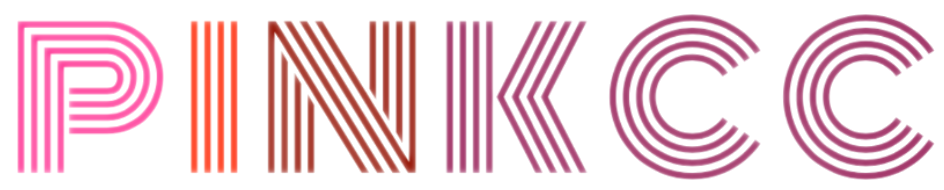
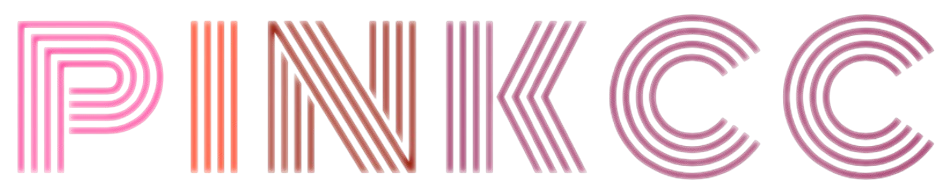
text update

Changed region(s): [[0.0, 0.1053, 0.6451, 0.9211], [0.6451, 0.0789, 1.0, 0.9474]]

diff --git a/web/src/index.html b/web/src/index.html
@@ -468,8 +468,16 @@
                 <article class="person">
                     <img src="assets/img/team/stephanie/head.jpg" alt="Portrait of Stéphanie Nougaret" />
                     <h3>Stéphanie Nougaret</h3>
-                    <p class="role">Radiology Professor<br />Head, PINKcc Lab</p>
+                    <p class="role">Radiology, Professor<br />Head, PINKcc Lab</p>
                     <button class="btn primary open-modal" data-target="#person-stephanie">
+                        View more →
+                    </button>
+                </article>
+                <article class="person">
+                    <img src="assets/img/team/pierre/head.jpg" alt="Portrait of Pierre-Emmanuel Colombo" />
+                    <h3>Pierre-Emmanuel Colombo</h3>
+                    <p class="role">Surgeon, Professor</p>
+                    <button class="btn primary open-modal" data-target="#person-pierre">
                         View more →
                     </button>
                 </article>
@@ -484,23 +492,15 @@
                 <article class="person">
                     <img src="assets/img/team/margaux/head.jpg" alt="Portrait of Margaux Verdier" />
                     <h3>Margaux Verdier</h3>
-                    <p class="role">Postdoctoral</p>
+                    <p class="role">Post doc</p>
                     <button class="btn primary open-modal" data-target="#person-margaux">
-                        View more →
-                    </button>
-                </article>
-                <article class="person">
-                    <img src="assets/img/team/pierre/head.jpg" alt="Portrait of Pierre-Emmanuel Colombo" />
-                    <h3>Pierre-Emmanuel Colombo</h3>
-                    <p class="role">MD-PhD</p>
-                    <button class="btn primary open-modal" data-target="#person-pierre">
                         View more →
                     </button>
                 </article>
                 <article class="person">
                     <img src="assets/img/team/jean-philipe/head.jpg" alt="Portrait of Jean-Philippe Villemin" />
                     <h3>Jean-Philippe Villemin</h3>
-                    <p class="role">Postdoctoral</p>
+                    <p class="role">Post doc</p>
                     <button class="btn primary open-modal" data-target="#person-jean-philippe">
                         View more →
                     </button>
@@ -662,11 +662,11 @@
                         class="personhead" /></div>
                 <h3>Jean-Philippe Villemin</h3>
                 <p class="muted">
-                    Postdoctoral Researcher in Bioinformatics
+                    Post doc Researcher in Bioinformatics
                 </p>
                 <p>
                 <h4>Who I Am</h4>
-                <p>I'm a postdoctoral researcher in bioinformatics specializing in cancer genomics and digital
+                <p>I'm a Post doc researcher in bioinformatics specializing in cancer genomics and digital
                     pathology. After ten years as a bioinformatics engineer across a university hospital (CHU), the
                     Institut de Génétique in Montpellier, and the Centre Léon Bérard in Lyon, I defended my PhD in 2021.
                     I now focus on the genomics on the High-grade serous ovarian carcinoma using spatial
@@ -920,7 +920,7 @@
                     </div>
 
                     <h3>Stéphanie Nougaret</h3>
-                    <p class="muted">Professor of Radiology • Head, PINKcc Lab • Institut du Cancer de Montpellier</p>
+                    <p class="muted"> Radiologist and Professor • Head, PINKcc Lab • Institut du Cancer de Montpellier</p>
 
                     <h4>Who I Am</h4>
                     <p>
@@ -1283,10 +1283,10 @@
                     <img src="assets/img/team/margaux/head.jpg" alt="Portrait of Margaux Verdier" class="personhead" />
                 </div>
                 <h3>Margaux Verdier</h3>
-                <p class="muted">Postdoctoral</p>
+                <p class="muted">Post doc</p>
                 <h4>Who I Am</h4>
                 <p>
-                    I have been a postdoctoral researcher since September 2023 in the PINKcc lab at the Montpellier
+                    I have been a Post doc researcher since September 2023 in the PINKcc lab at the Montpellier
                     Cancer Research Institute (IRCM, INSERM U1194).
                 </p>
                 <p>
@@ -1306,7 +1306,7 @@
 
                 <h4>My Research Project</h4>
                 <p>
-                    As a postdoctoral researcher, I specialize in ultra-high-field preclinical imaging (9.4T MRI, BNIF –
+                    As a Post doc researcher, I specialize in ultra-high-field preclinical imaging (9.4T MRI, BNIF –
                     University of Montpellier) for the advanced quantitative characterization of complex tumor tissues,
                     and in the development of robust radiomic pipelines designed to create virtual biopsies for
                     high-grade serous ovarian cancer and pancreatic cancer.
@@ -1364,7 +1364,7 @@
                 <p>
                     I am a physicist specializing in magnetic resonance imaging (MRI), with a focus on developing
                     innovative biomarkers for tumor characterization. I joined IRCM (INSERM, UMR 1194) in 2018 as a
-                    postdoctoral researcher, where I worked on advancing MRI-based biomarkers for tumor assessment. In
+                    Post doc researcher, where I worked on advancing MRI-based biomarkers for tumor assessment. In
                     2023, I secured a permanent position as a researcher at the institute (ICM affiliation).
                 </p>
                 <p>
@@ -1548,7 +1548,7 @@
                     <img src="assets/img/team/pierre/head.jpg" alt="Portrait of Pierre" class="personhead" />
                 </div>
                 <h3>Pierre-Emmanuel Colombo</h3>
-                <p class="muted">MD-PhD</p>
+                <p class="muted">Surgeon, Professor</p>
                 <p>
                     Pr. Pierre-Emmanuel Colombo is Professor of Surgical Oncology at the Montpellier Cancer Center (ICM)
                     and an internationally recognized expert in the management of gynecologic cancers, particularly

diff --git a/web/src/assets/css/style.css b/web/src/assets/css/style.css
@@ -104,7 +104,6 @@ img {
 .logo {
   height: 36px;
   border-radius: 8px;
-  box-shadow: var(--shadow);
 }
 
 .nav {
@@ -119,6 +118,7 @@ a {
   padding: 8px 12px;
   border-radius: 10px;
 }
+
 a:hover {
   background: #ffe3ee;
 }
